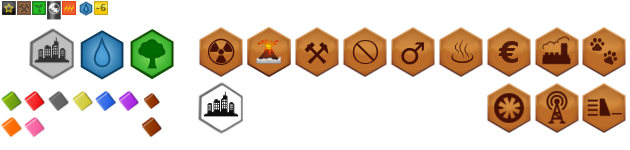
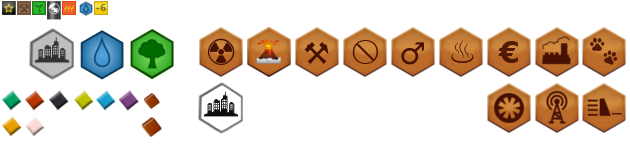
Deuteranopia fork customizations on 2026-May-31 upstream

Changed region(s): [[0.0, 0.6133, 0.2413, 0.7467], [0.0, 0.7733, 0.0905, 0.9067]]

diff --git a/src/styles/variables.less b/src/styles/variables.less
@@ -6,18 +6,18 @@
 //borders
 @border_action: rgb(75, 72, 214);
 //text
-@text_action: rgb(255, 255, 255);
-@text_main: rgb(221, 221, 221);
+@text_action: rgb(250, 250, 250);
+@text_main: rgb(250, 250, 250);
 //players
 @players: red, yellow, green, black, blue, purple, orange, pink;
-@player_red: rgb(153, 17, 0);
-@player_yellow: rgb(170, 170, 0);
-@player_green: rgb(0, 153, 0);
-@player_black: rgb(170, 170, 170);
-@player_blue: rgb(0, 102, 255);
-@player_purple: rgb(140, 0, 255);
-@player_orange: rgb(236, 113, 12);
-@player_pink: rgb(245, 116, 187);
+@player_red: rgb(185, 56, 2);
+@player_yellow: rgb(192, 192, 0);
+@player_green: rgb(0, 158, 95);
+@player_black: rgb(47, 45, 95);
+@player_blue: rgb(22, 159, 204);
+@player_purple: rgb(124, 66, 131);
+@player_orange: rgb(230, 159, 0);
+@player_pink: rgb(251, 218, 212);
 //per-player tag-overview backgrounds (custom for black and orange below)
 @player_red_tag_bg:    fade(@player_red, 20%);
 @player_yellow_tag_bg: fade(@player_yellow, 20%);
@@ -46,8 +46,8 @@
 @grey_900: #222;
 //tag/chip variants that don't exactly match the player/board palette
 @board_tharsis_chip: rgb(202, 117, 64);
-@player_black_tag_bg: rgba(17, 17, 17, 0.2);
-@player_orange_tag_bg: rgba(189, 123, 0, 0.2);
+@player_black_tag_bg: fade(@player_black, 20%);
+@player_orange_tag_bg: fade(@player_orange, 20%);
 //radius
 @radius_circle: 50%;
 //shadows

diff --git a/README.md b/README.md
@@ -1,3 +1,107 @@
+# Terraforming Mars — Deuteranopia Edition
+
+This is a personal fork of [terraforming-mars/terraforming-mars](https://github.com/terraforming-mars/terraforming-mars) with color adjustments for **deuteranopia** (red-green color blindness). Player colors and board icons are remapped to be distinguishable without relying on red-green contrast.
+
+**Docker Hub:** [`gugatec/terraforming-mars_deuteranopia-colors`](https://hub.docker.com/r/gugatec/terraforming-mars_deuteranopia-colors)
+
+> **Breaking change — Postgres 14.5 → 18.4:** The database image has been upgraded. Postgres 18 stores data in a version-specific subdirectory, so the volume mount has moved from `/var/lib/postgresql/data` to `/var/lib/postgresql`. If you have an existing database from the previous version, a dump/restore is required before starting the new stack.
+
+---
+
+## What's changed from upstream
+
+Only 3 files differ from the original repository:
+
+| File | Change |
+|---|---|
+| `assets/board_icons.png` | Recolored board icons |
+| `assets/colony_ship.png` | Recolored colony ship |
+| `src/styles/variables.less` | All player colors + text colors adjusted |
+
+### Player color adjustments
+
+| Player | This fork | Upstream |
+|---|---|---|
+| Red | `rgb(185, 56, 2)` | `rgb(153, 17, 0)` |
+| Yellow | `rgb(192, 192, 0)` | `rgb(170, 170, 0)` |
+| Green | `rgb(0, 158, 95)` | `rgb(0, 153, 0)` |
+| Black | `rgb(47, 45, 95)` — dark indigo | `rgb(170, 170, 170)` — grey |
+| Blue | `rgb(22, 159, 204)` | `rgb(0, 102, 255)` |
+| Purple | `rgb(124, 66, 131)` | `rgb(140, 0, 255)` |
+| Orange | `rgb(230, 159, 0)` | `rgb(236, 113, 12)` |
+| Pink | `rgb(251, 218, 212)` | `rgb(245, 116, 187)` |
+
+---
+
+## Running with Docker
+
+The recommended way to run this fork is via Docker Compose with PostgreSQL.
+
+A ready-to-use `compose.yml` and `.env.docker-compose` are included in this repository.
+
+**Setup:**
+```bash
+# 1. Copy the env template to .env (gitignored) and fill in your values
+cp .env.docker-compose .env
+$EDITOR .env
+
+# 2. Start the stack
+docker compose up -d
+```
+
+The app will be available at **http://localhost:`HOST_PORT`** (default: http://localhost:8080).
+
+The admin interface is available at **http://localhost:`HOST_PORT`/game?id=`SERVER_ID`**.
+
+**`compose.yml` — what's included:**
+
+| Service | Image | Notes |
+|---|---|---|
+| `terraforming-mars` | `gugatec/terraforming-mars_deuteranopia-colors:latest` | App, port 8080 |
+| `mars-postgres` | `postgres:18` | Data persisted to `./postgresdb/` |
+
+> **Note (Postgres 18+):** The Docker image stores data under a version-specific subdirectory, so the volume is mounted at `/var/lib/postgresql` rather than `/var/lib/postgresql/data`. If migrating from an older Postgres version, a dump/restore is required before swapping the image.
+
+**`.env` variables** (see `.env.docker-compose`):
+
+| Variable | Description |
+|---|---|
+| `HOST_PORT` | Host port the app is exposed on (container always uses 8080) |
+| `POSTGRES_USER` | PostgreSQL username |
+| `POSTGRES_PASSWORD` | PostgreSQL password |
+| `POSTGRES_DB` | PostgreSQL database name |
+| `SERVER_ID` | Unique identifier for this server instance |
+
+**Stop / update:**
+```bash
+docker compose down
+docker compose pull && docker compose up -d   # pulls latest image then restarts
+```
+
+---
+
+## Syncing with upstream
+
+```bash
+git fetch upstream
+git reset --hard upstream/main
+# restore the 3 modified files, then:
+git add assets/board_icons.png assets/colony_ship.png src/styles/variables.less
+git commit -m "Deuteranopia color adjustments: board icons, colony ship, CSS variables"
+git push origin main --force
+```
+
+---
+
+---
+---
+
+# Original README (upstream)
+
+> The content below is from the original [terraforming-mars/terraforming-mars](https://github.com/terraforming-mars/terraforming-mars) repository. Some sections (Heroku, YunoHost, community Discord) refer to the upstream project and may not apply to this fork.
+
+---
+
 # <a name="README"> Terraforming Mars Open-source
 
 <div align="center">
@@ -29,10 +133,12 @@ to foster. Note that any new features you see on this repo made available on tha
 The board game is great and this repository highly recommends [purchasing it](https://www.amazon.com/Stronghold-Games-6005SG-Terraforming-Board/dp/B01GSYA4K2) for personal use.
 
 ## ⬤ I want to join the community!
-[Join us over on Discord!](https://discord.gg/afeyggbN6Y).
+[Join us over on Discord!](https://discord.gg/afeyggbN6Y) *(Note: this is the upstream project's Discord, not specific to this fork.)*
 
 ## ⬤ I want to play!
-There's a instance available at https://terraforming-mars.herokuapp.com/. It's generally reliable, but read more below.
+There's an instance available at https://terraforming-mars.herokuapp.com/. *(Note: this is the upstream instance without deuteranopia colors. To play with the color adjustments, use the Docker image above.)*
+
+It's generally reliable, but read more below.
 
 There's also this excellent
 [YouTube playlist](https://youtube.com/playlist?list=PLCGE78n9vCqhhmRe9YCrRh2GLNMPB_3j1) focused on tutorials custom for this app.
@@ -68,17 +174,17 @@ The code for the Yunohost Terraforming-Mars package is in this [GitHub repo](htt
 (Warning, this is not specifically supported.)
 
 ## ⬤ I want to report a bug or feature request
-Add it to our [issues tab](https://github.com/bafolts/terraforming-mars/issues/new).
+This fork does not track issues. For bugs related to the game logic or upstream features, please use the [upstream issue tracker](https://github.com/bafolts/terraforming-mars/issues/new). For color/accessibility issues specific to this fork, feel free to open an issue here.
 
 ## ⬤ I want to contribute to development
-See [contribution guide](https://github.com/terraforming-mars/terraforming-mars/blob/main/CONTRIBUTING.md) and [local development setup](https://github.com/terraforming-mars/terraforming-mars/wiki/Local-Setup).
+This is a personal fork and does not actively accept contributions. For the upstream project, see the [contribution guide](https://github.com/terraforming-mars/terraforming-mars/blob/main/CONTRIBUTING.md) and [local development setup](https://github.com/terraforming-mars/terraforming-mars/wiki/Local-Setup).
 
 ## ⬤ I want to win!
 Me too, pal. Me too.
 
 ## ✨ Contributors ✨
 
-Thanks goes to these wonderful people:
+Thanks goes to these wonderful people *(contributors to the upstream project)*:
 
 <table border="0">
   <tdata>